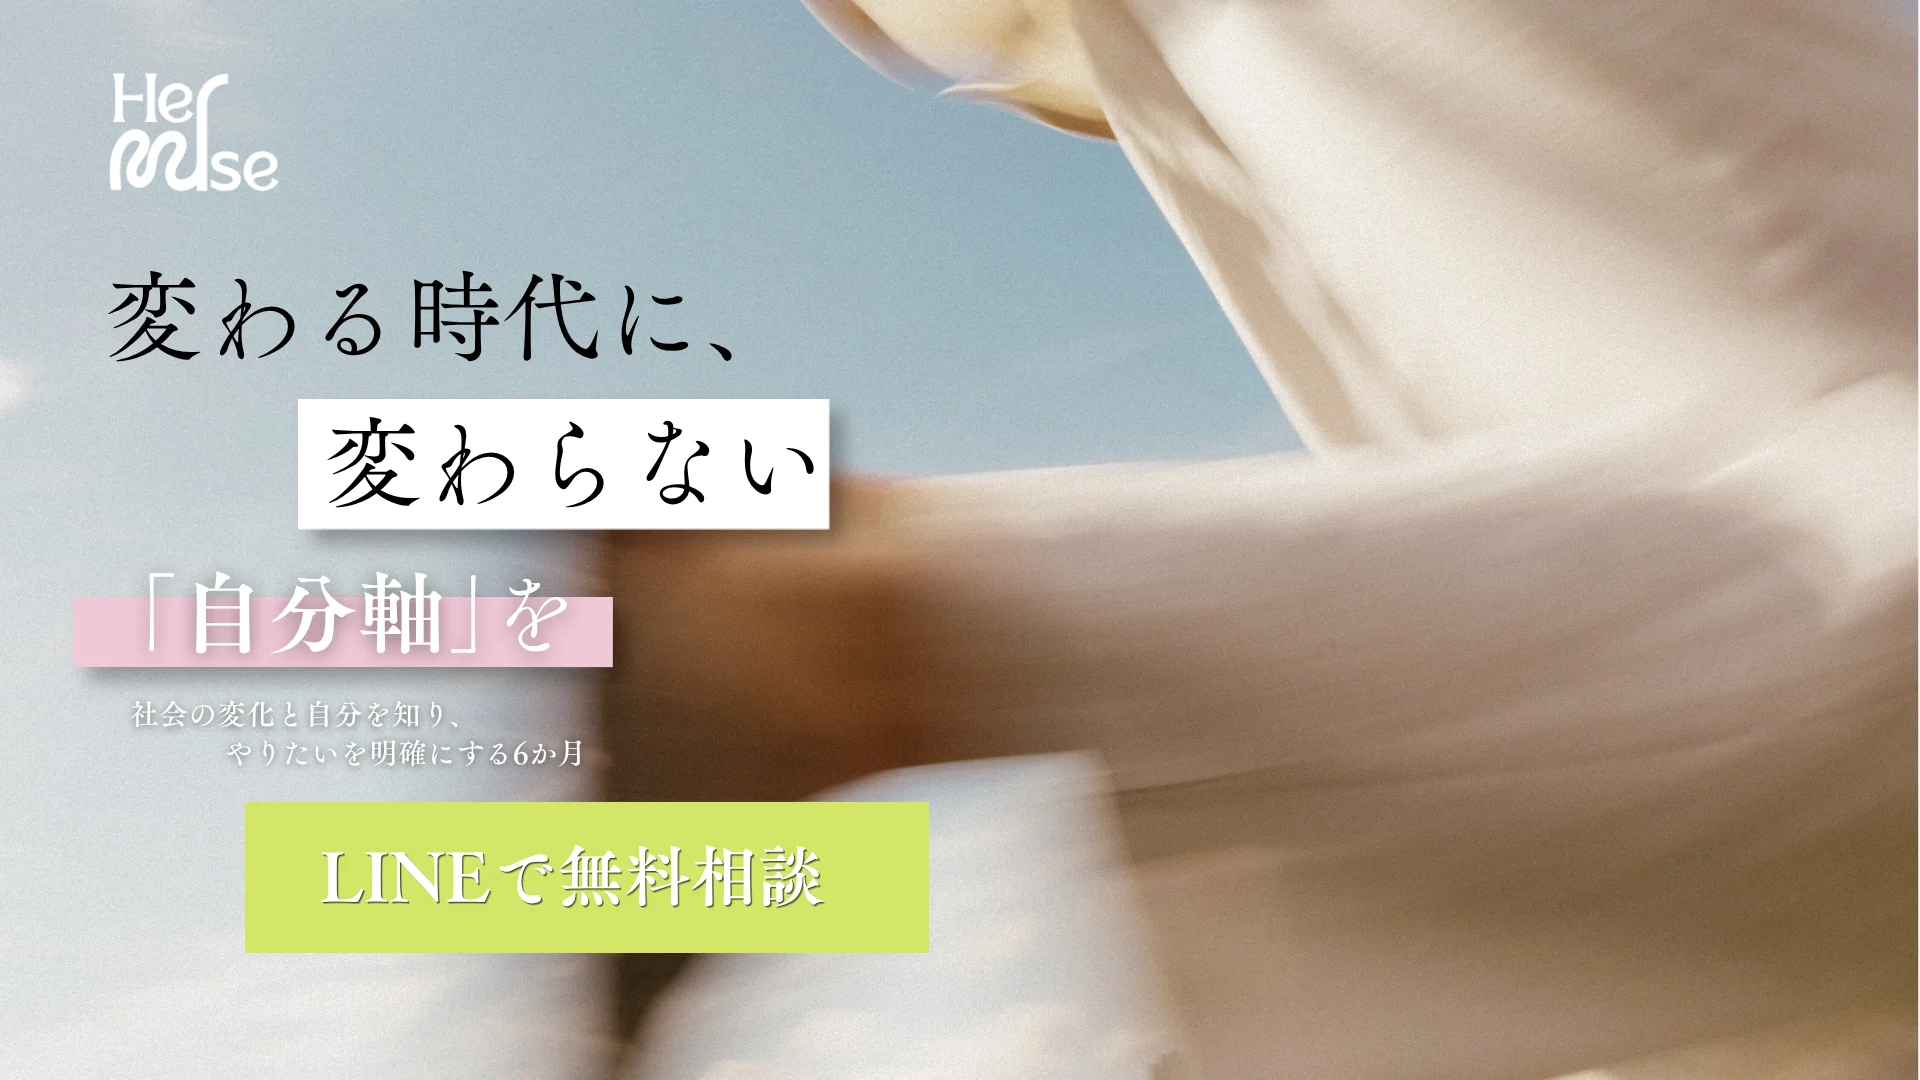
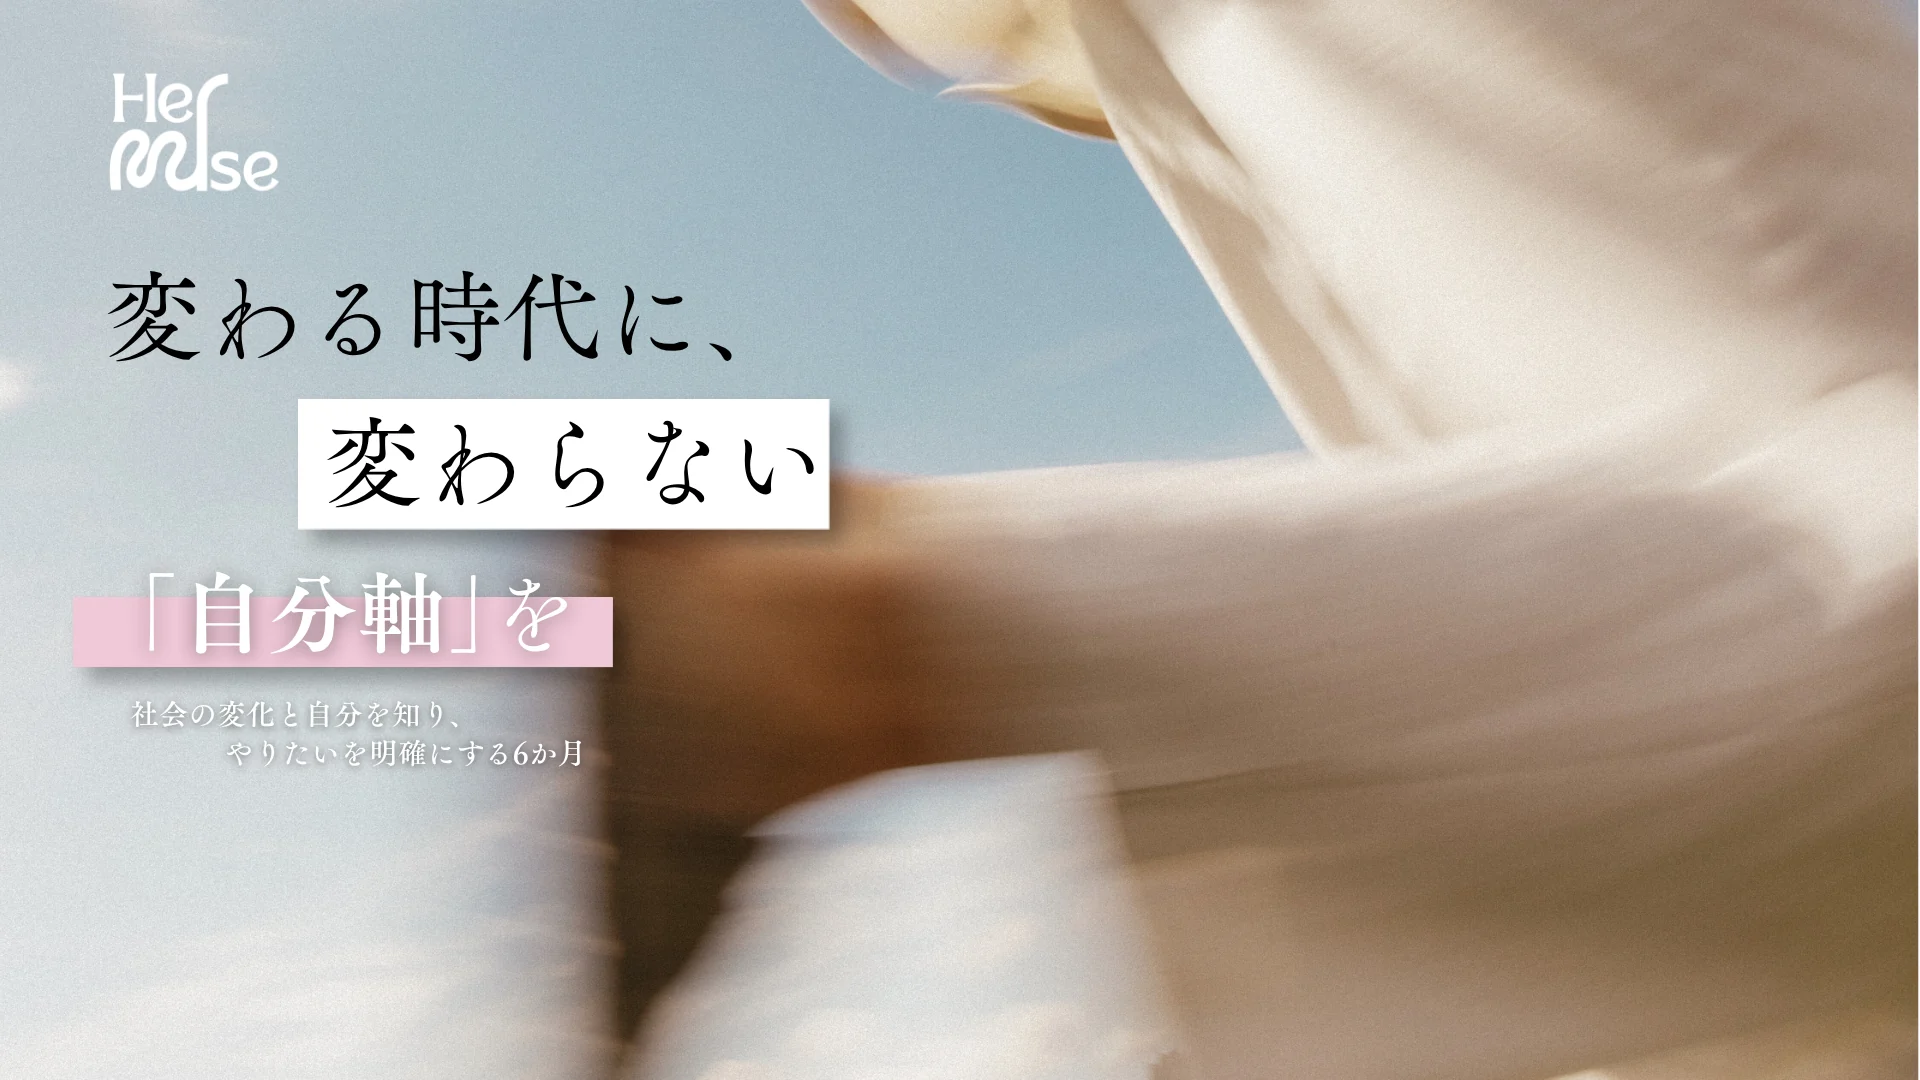
Recompose responsive hero and move statistic below

Changed region(s): [[0.125, 0.7333, 0.5, 0.8861]]

diff --git a/app/globals.css b/app/globals.css
@@ -1904,30 +1904,38 @@ button { font: inherit; }
 #her-muse-reference-body-v2 .hmr-kv-media img {
   object-fit: cover;
 }
-#her-muse-reference-body-v2 .hmr-kv-stat {
-  position: absolute;
-  z-index: 2;
-  right: 5.5%;
-  bottom: 8.5%;
+#her-muse-reference-body-v2 .hmr-kv-stat.hmr-kv-stat--below {
+  position: relative;
+  z-index: 1;
   display: grid;
-  width: min(36%, 600px);
-  min-height: clamp(142px, 13vw, 218px);
-  padding: clamp(34px, 2.8vw, 50px) clamp(22px, 2.4vw, 40px) clamp(20px, 2vw, 34px);
+  width: 100%;
+  min-height: clamp(230px, 18vw, 280px);
+  padding: clamp(60px, 5vw, 72px) max(7%, calc((100% - 1120px) / 2)) clamp(36px, 3.4vw, 50px);
   align-items: center;
-  grid-template-columns: minmax(96px, .76fr) minmax(0, 1.24fr);
-  column-gap: clamp(22px, 2.2vw, 38px);
+  grid-template-columns: minmax(260px, .72fr) minmax(420px, 1.28fr);
+  column-gap: clamp(64px, 7vw, 104px);
   color: #fff;
-  background: rgba(169, 71, 91, .93);
-  box-shadow: 12px 14px 0 rgba(23, 21, 18, .15);
-  clip-path: polygon(5% 0, 100% 0, 100% 100%, 0 100%, 0 16%);
+  overflow: hidden;
+  background: #ad596b;
+  box-shadow: none;
+  clip-path: none;
+}
+#her-muse-reference-body-v2 .hmr-kv-stat.hmr-kv-stat--below::after {
+  content: "";
+  position: absolute;
+  top: 0;
+  right: 0;
+  width: 34%;
+  height: 7px;
+  background: var(--hmr-lime);
 }
 #her-muse-reference-body-v2 .hmr-kv-stat-label {
   position: absolute;
-  top: clamp(14px, 1.2vw, 22px);
-  left: clamp(22px, 2.4vw, 40px);
+  top: clamp(26px, 2.4vw, 38px);
+  left: max(7%, calc((100% - 1120px) / 2));
   margin: 0;
   font-family: var(--font-dm-sans), sans-serif;
-  font-size: clamp(8px, .65vw, 10px);
+  font-size: clamp(10px, .75vw, 12px);
   font-weight: 700;
   letter-spacing: .18em;
   opacity: .78;
@@ -1935,7 +1943,7 @@ button { font: inherit; }
 #her-muse-reference-body-v2 .hmr-kv-stat > strong {
   display: block;
   font-family: var(--font-anton), Impact, sans-serif;
-  font-size: clamp(66px, 6.6vw, 112px);
+  font-size: clamp(92px, 8.5vw, 138px);
   font-weight: 400;
   line-height: .86;
   letter-spacing: -.035em;
@@ -1947,19 +1955,20 @@ button { font: inherit; }
 }
 #her-muse-reference-body-v2 .hmr-kv-stat > div {
   min-width: 0;
-  padding-left: clamp(18px, 1.7vw, 28px);
+  padding-left: clamp(30px, 3vw, 50px);
   border-left: 1px solid rgba(255, 255, 255, .44);
 }
 #her-muse-reference-body-v2 .hmr-kv-stat > div p {
   margin: 0;
-  font-size: clamp(11px, 1.08vw, 17px);
+  font-size: clamp(17px, 1.55vw, 24px);
   line-height: 1.68;
 }
-#her-muse-reference-body-v2 .hmr-kv-stat > div small {
+#her-muse-reference-body-v2 .hmr-kv-stat-source {
   display: block;
-  margin-top: clamp(10px, 1vw, 16px);
+  grid-column: 2;
+  margin-top: clamp(16px, 1.5vw, 24px);
   font-family: var(--font-dm-sans), sans-serif;
-  font-size: clamp(6px, .52vw, 8px);
+  font-size: clamp(9px, .72vw, 11px);
   line-height: 1.55;
   opacity: .72;
 }
@@ -1971,15 +1980,41 @@ button { font: inherit; }
   display: flex;
   width: 35.7%;
   height: 14%;
+  min-height: 58px;
+  padding-left: clamp(20px, 2.4vw, 38px);
   align-items: center;
-  justify-content: center;
-  color: transparent;
+  justify-content: space-between;
+  gap: 20px;
+  border: 1px solid var(--hmr-ink);
+  color: var(--hmr-ink);
+  background: var(--hmr-lime);
+  box-shadow: clamp(6px, .65vw, 10px) clamp(7px, .72vw, 12px) 0 rgba(23, 21, 18, .22);
+  font-family: var(--font-dm-sans), sans-serif;
+  font-size: clamp(15px, 1.65vw, 27px);
+  font-weight: 700;
+  letter-spacing: .035em;
   text-decoration: none;
   cursor: pointer;
+  transition: color .2s ease, background-color .2s ease, transform .2s ease;
 }
 #her-muse-reference-body-v2 .hmr-kv-cta span,
 #her-muse-reference-body-v2 .hmr-kv-cta b {
-  opacity: 0;
+  opacity: 1;
+}
+#her-muse-reference-body-v2 .hmr-kv-cta b {
+  display: grid;
+  width: clamp(54px, 5vw, 82px);
+  height: 100%;
+  flex: 0 0 auto;
+  place-items: center;
+  border-left: 1px solid rgba(23, 21, 18, .28);
+  font-size: clamp(16px, 1.5vw, 24px);
+  font-weight: 500;
+}
+#her-muse-reference-body-v2 .hmr-kv-cta:hover {
+  color: #fff;
+  background: var(--hmr-cta-strong);
+  transform: translateY(-3px);
 }
 #her-muse-reference-body-v2 .hmr-kv-cta:focus-visible {
   outline: 3px solid var(--hmr-ink);
@@ -1988,21 +2023,23 @@ button { font: inherit; }
 #her-muse-reference-body-v2 .hmr-kv-cta[aria-disabled="true"] {
   cursor: default;
 }
+#her-muse-reference-body-v2 .hmr-kv-cta[aria-disabled="true"]:hover {
+  color: var(--hmr-ink);
+  background: var(--hmr-lime);
+  transform: none;
+}
 
 @media (min-width: 768px) and (max-width: 1100px) {
-  #her-muse-reference-body-v2 .hmr-kv-stat {
-    right: 3.5%;
-    bottom: 5%;
-    width: 42%;
-    min-height: 136px;
-    padding: 34px 20px 18px;
-    grid-template-columns: minmax(82px, .7fr) minmax(0, 1.3fr);
-    column-gap: 18px;
+  #her-muse-reference-body-v2 .hmr-kv-stat.hmr-kv-stat--below {
+    min-height: 220px;
+    padding: 64px 7% 42px;
+    grid-template-columns: minmax(200px, .72fr) minmax(0, 1.28fr);
+    column-gap: 48px;
   }
-  #her-muse-reference-body-v2 .hmr-kv-stat-label { left: 20px; }
-  #her-muse-reference-body-v2 .hmr-kv-stat > strong { font-size: clamp(58px, 7.2vw, 76px); }
-  #her-muse-reference-body-v2 .hmr-kv-stat > div { padding-left: 16px; }
-  #her-muse-reference-body-v2 .hmr-kv-stat > div p { font-size: clamp(9px, 1.12vw, 12px); }
+  #her-muse-reference-body-v2 .hmr-kv-stat-label { left: 7%; }
+  #her-muse-reference-body-v2 .hmr-kv-stat > strong { font-size: clamp(78px, 10vw, 104px); }
+  #her-muse-reference-body-v2 .hmr-kv-stat > div { padding-left: 28px; }
+  #her-muse-reference-body-v2 .hmr-kv-stat > div p { font-size: clamp(15px, 1.8vw, 19px); }
 }
 
 @media (max-width: 767px) {
@@ -2010,72 +2047,51 @@ button { font: inherit; }
     min-height: 0;
     aspect-ratio: 9 / 16;
   }
-  #her-muse-reference-body-v2 .hmr-kv-stat {
-    top: 58.5%;
-    right: 6%;
-    bottom: auto;
-    left: 6%;
-    width: auto;
-    min-height: 0;
-    padding: 34px 18px 17px;
-    grid-template-columns: minmax(92px, .74fr) minmax(0, 1.26fr);
-    column-gap: 24px;
-    background: rgba(169, 71, 91, .96);
-    box-shadow: 8px 9px 0 rgba(23, 21, 18, .15);
-    clip-path: polygon(7% 0, 100% 0, 100% 100%, 0 100%, 0 16%);
+  #her-muse-reference-body-v2 .hmr-kv-stat.hmr-kv-stat--below {
+    min-height: 224px;
+    padding: 54px 24px 30px;
+    grid-template-columns: minmax(104px, .72fr) minmax(0, 1.28fr);
+    column-gap: 30px;
+    background: #ad596b;
   }
   #her-muse-reference-body-v2 .hmr-kv-stat-label {
-    top: 13px;
-    left: 18px;
-    font-size: 7px;
+    top: 22px;
+    left: 24px;
+    font-size: 9px;
   }
   #her-muse-reference-body-v2 .hmr-kv-stat > strong {
-    align-self: start;
-    padding-top: 8px;
-    font-size: clamp(56px, 16vw, 68px);
+    align-self: center;
+    padding-top: 0;
+    font-size: clamp(62px, 18vw, 76px);
   }
   #her-muse-reference-body-v2 .hmr-kv-stat > div {
-    padding-left: 20px;
+    padding-left: 22px;
   }
   #her-muse-reference-body-v2 .hmr-kv-stat > div p {
-    font-size: clamp(10px, 2.9vw, 12px);
-    line-height: 1.62;
-  }
-  #her-muse-reference-body-v2 .hmr-kv-stat > div small {
-    margin-top: 9px;
-    font-size: 6px;
-    line-height: 1.5;
+    font-size: clamp(12px, 3.3vw, 14px);
+    line-height: 1.68;
   }
   #her-muse-reference-body-v2 .hmr-kv-cta {
-    top: auto;
-    right: 12%;
-    bottom: 5.8%;
-    left: 12%;
-    width: auto;
-    height: clamp(56px, 15vw, 64px);
-    padding-left: 20px;
-    justify-content: space-between;
-    gap: 16px;
-    border: 1px solid var(--hmr-ink);
-    color: var(--hmr-ink);
-    background: var(--hmr-lime);
-    box-shadow: 7px 8px 0 rgba(23, 21, 18, .2);
-    font-family: var(--font-dm-sans), sans-serif;
-    font-size: clamp(12px, 3.4vw, 14px);
-    font-weight: 700;
-    letter-spacing: .035em;
-  }
-  #her-muse-reference-body-v2 .hmr-kv-cta span,
-  #her-muse-reference-body-v2 .hmr-kv-cta b {
-    opacity: 1;
+    top: 55.5%;
+    right: auto;
+    bottom: auto;
+    left: 6%;
+    width: 68%;
+    height: auto;
+    min-height: 54px;
+    aspect-ratio: 4.8 / 1;
+    padding-left: 18px;
+    gap: 14px;
+    font-size: clamp(13px, 4vw, 16px);
   }
   #her-muse-reference-body-v2 .hmr-kv-cta b {
-    display: grid;
     width: 50px;
-    height: 100%;
-    place-items: center;
-    border-left: 1px solid rgba(23, 21, 18, .28);
     font-size: 16px;
-    font-weight: 500;
+  }
+  #her-muse-reference-body-v2 .hmr-kv-stat-source {
+    grid-column: 1 / -1;
+    margin-top: 18px;
+    font-size: 10px;
+    text-align: right;
   }
 }

diff --git a/app/page.tsx b/app/page.tsx
@@ -29,7 +29,12 @@ const pageMarkup = String.raw`
         <img src="/her-muse-kv-pc.webp" alt="" width="1920" height="1080" fetchpriority="high" decoding="async">
       </picture>
 
-      <aside class="hmr-kv-stat" aria-label="働くことに関する調査結果">
+      <a class="hmr-kv-cta" ${LINE_CTA_ATTRIBUTES} aria-label="まずはLINEで無料相談">
+        <span>まずはLINEで無料相談</span><b aria-hidden="true">→</b>
+      </a>
+    </section>
+
+    <section class="hmr-kv-stat hmr-kv-stat--below" aria-label="働くことに関する調査結果">
         <p class="hmr-kv-stat-label">WHY WE WORK</p>
         <strong>75.2<span>%</span></strong>
         <div>
@@ -37,13 +42,8 @@ const pageMarkup = String.raw`
             <span class="hmr-copy-pc"><i>「いったい自分は、</i><i>なんのために働いているのだろう」</i><i>と感じたことがある人</i></span>
             <span class="hmr-copy-sp"><i>「いったい自分は、</i><i>なんのために働いて</i><i>いるのだろう」と</i><i>感じたことがある人</i></span>
           </p>
-          <small>出典：doda「なんのために働くのか？」15,000人調査（2024年）</small>
         </div>
-      </aside>
-
-      <a class="hmr-kv-cta" ${LINE_CTA_ATTRIBUTES} aria-label="まずはLINEで無料相談">
-        <span>まずはLINEで無料相談</span><b aria-hidden="true">→</b>
-      </a>
+        <small class="hmr-kv-stat-source">出典：doda「なんのために働くのか？」15,000人調査（2024年）</small>
     </section>
 
     <section class="hmr-problem">
